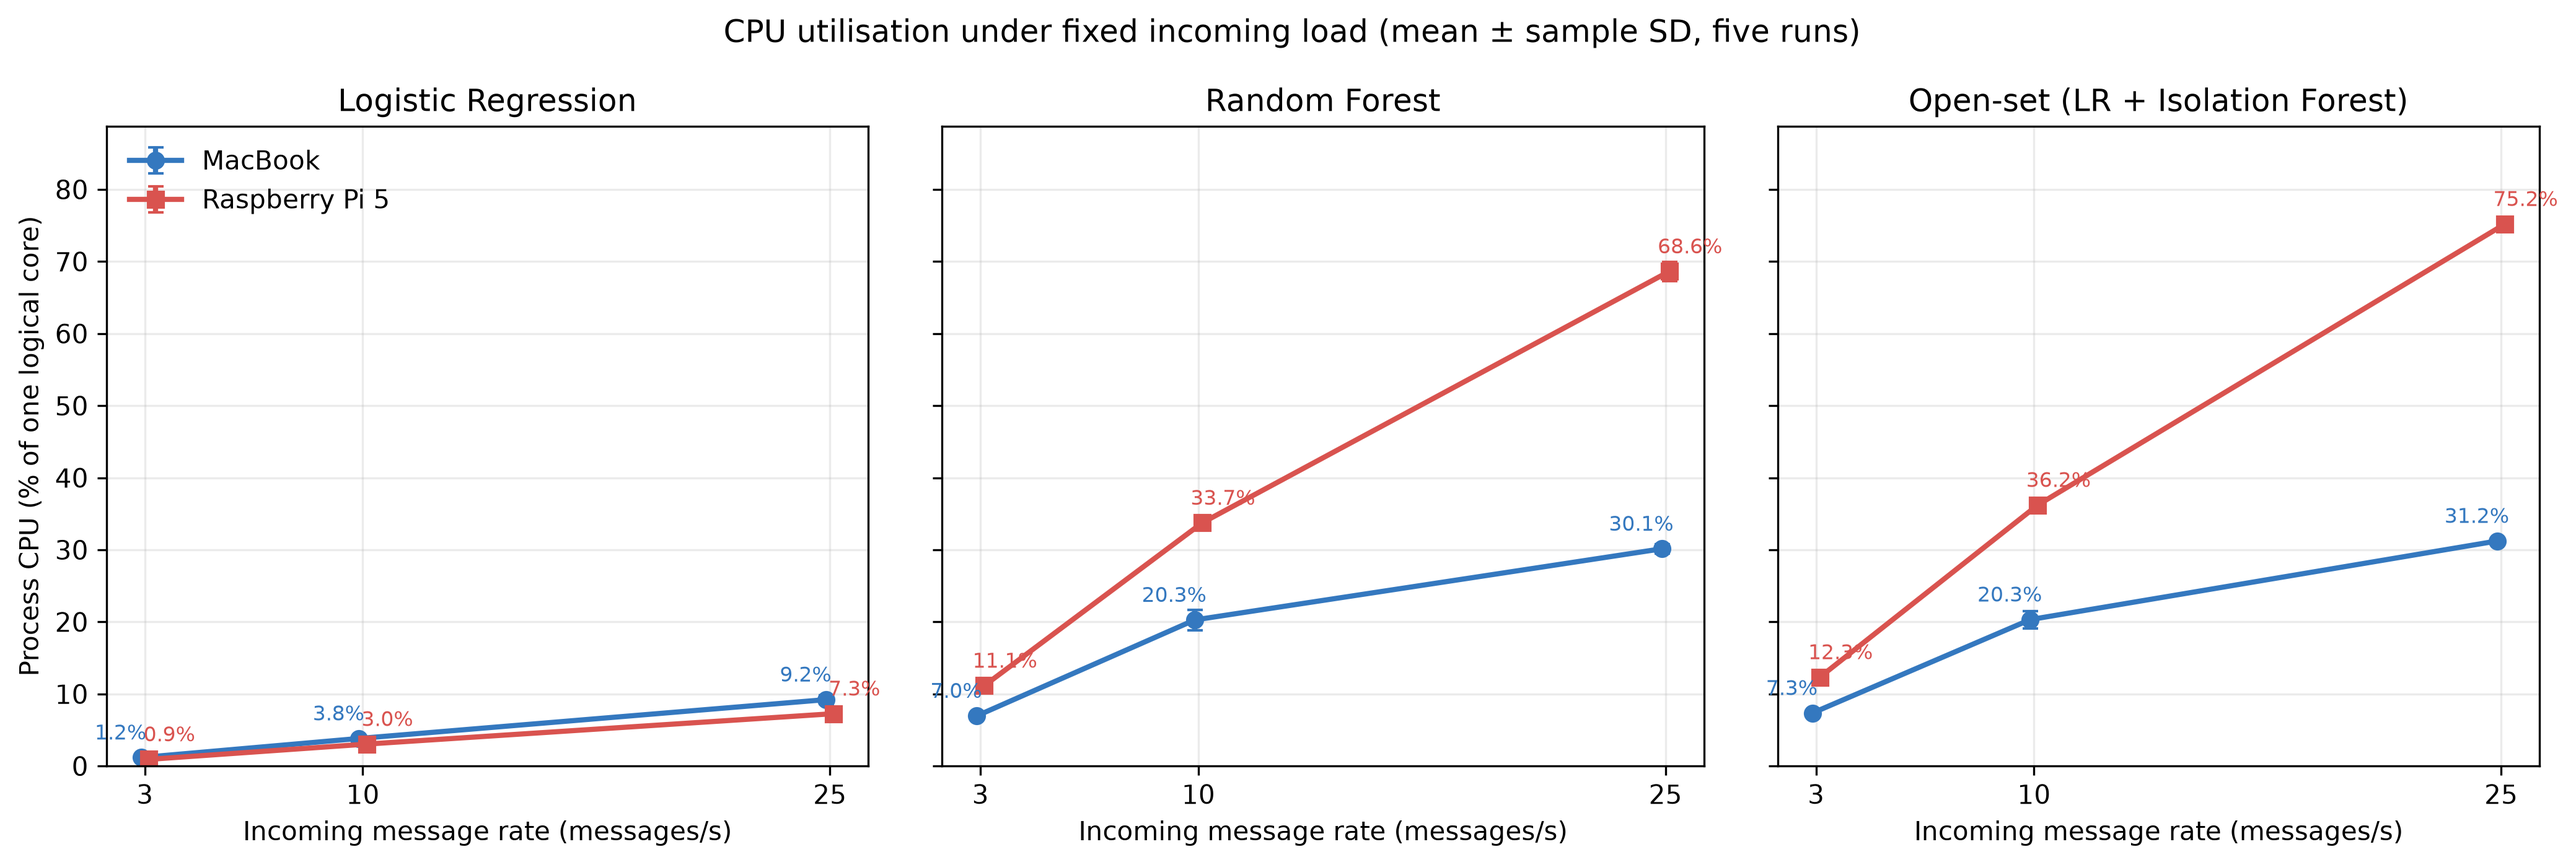
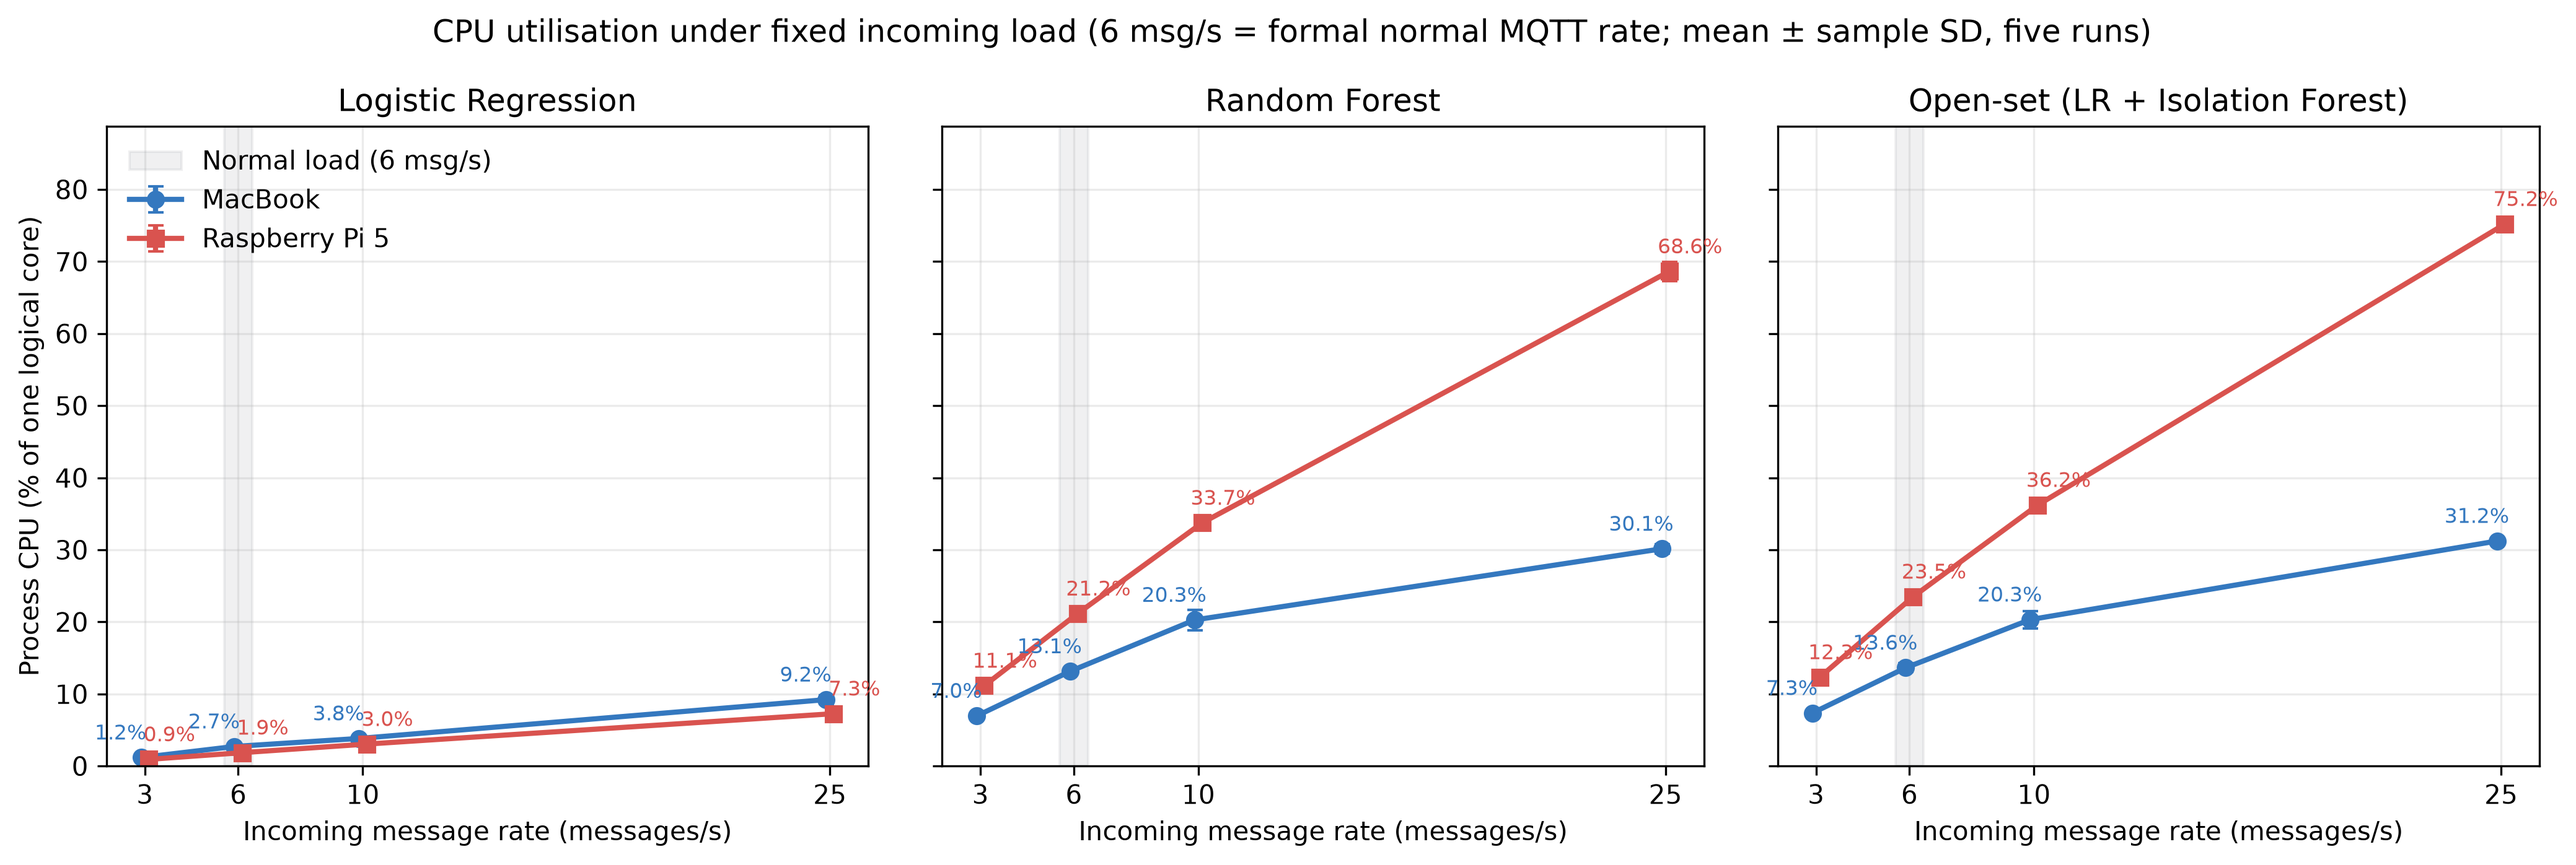
add normal MQTT load CPU comparison

diff --git a/scripts/summarize_results.py b/scripts/summarize_results.py
@@ -35,6 +35,12 @@ SOURCES = {
     "drift_platform_comparison": Path(
         "results/drift/platform_comparison.csv"
     ),
+    "normal_load_cpu": Path(
+        "results/edge/normal_load_cpu/platform_comparison.csv"
+    ),
+    "normal_load_thermal": Path(
+        "results/edge/normal_load_cpu/thermal_observation.csv"
+    ),
 }
 
 
@@ -62,6 +68,8 @@ def build_summary() -> tuple[dict[str, Any], pd.DataFrame]:
     drift_platform_comparison = pd.read_csv(
         SOURCES["drift_platform_comparison"]
     )
+    normal_load_cpu = pd.read_csv(SOURCES["normal_load_cpu"])
+    normal_load_thermal = pd.read_csv(SOURCES["normal_load_thermal"])
 
     all_views = ablation.loc[ablation["experiment_name"] == "all_views"].iloc[0]
     logistic = models.loc[models["model_name"] == "logistic_regression"].iloc[0]
@@ -82,6 +90,7 @@ def build_summary() -> tuple[dict[str, Any], pd.DataFrame]:
         live_mqtt["normal_messages"] * live_mqtt["normal_alert_rate"]
     ).sum()
     live_messages = live_mqtt["messages"].sum()
+    normal_cpu_by_pipeline = normal_load_cpu.set_index("pipeline")
 
     summary = {
         "multi_view": {
@@ -282,12 +291,76 @@ def build_summary() -> tuple[dict[str, Any], pd.DataFrame]:
             ),
             "throttled_status_all_checkpoints": "0x0",
         },
+        "normal_mqtt_cpu": {
+            "message_rate": 6.0,
+            "runs_per_pipeline": 5,
+            "logistic_mac_single_core_percent": float(
+                normal_cpu_by_pipeline.loc[
+                    "logistic_regression",
+                    "cpu_percent_single_core_equivalent_mean_mac",
+                ]
+            ),
+            "logistic_pi_single_core_percent": float(
+                normal_cpu_by_pipeline.loc[
+                    "logistic_regression",
+                    "cpu_percent_single_core_equivalent_mean_pi",
+                ]
+            ),
+            "random_forest_mac_single_core_percent": float(
+                normal_cpu_by_pipeline.loc[
+                    "random_forest",
+                    "cpu_percent_single_core_equivalent_mean_mac",
+                ]
+            ),
+            "random_forest_pi_single_core_percent": float(
+                normal_cpu_by_pipeline.loc[
+                    "random_forest",
+                    "cpu_percent_single_core_equivalent_mean_pi",
+                ]
+            ),
+            "open_set_mac_single_core_percent": float(
+                normal_cpu_by_pipeline.loc[
+                    "open_set",
+                    "cpu_percent_single_core_equivalent_mean_mac",
+                ]
+            ),
+            "open_set_pi_single_core_percent": float(
+                normal_cpu_by_pipeline.loc[
+                    "open_set",
+                    "cpu_percent_single_core_equivalent_mean_pi",
+                ]
+            ),
+            "deadline_misses_mac": float(
+                normal_load_cpu["deadline_misses_mean_mac"].sum()
+            ),
+            "deadline_misses_pi": float(
+                normal_load_cpu["deadline_misses_mean_pi"].sum()
+            ),
+            "pi_temperature_before_c": float(
+                normal_load_thermal.loc[
+                    normal_load_thermal["checkpoint"]
+                    == "before_normal_load_benchmark",
+                    "temperature_c",
+                ].iloc[0]
+            ),
+            "pi_temperature_after_c": float(
+                normal_load_thermal.loc[
+                    normal_load_thermal["checkpoint"]
+                    == "after_normal_load_benchmark",
+                    "temperature_c",
+                ].iloc[0]
+            ),
+            "thermal_throttling_observed": bool(
+                (normal_load_thermal["throttled_status"] != "0x0").any()
+            ),
+        },
         "limitations": {
             "edge_hardware": "MacBook and Raspberry Pi 5 Model B",
             "raspberry_pi_measured": True,
             "raspberry_pi_drift_measured": True,
             "energy_measured": False,
             "thermal_throttling_checked": True,
+            "normal_load_cpu_measured": True,
         },
     }
 

diff --git a/src/evaluation/fixed_rate_platform_comparison.py b/src/evaluation/fixed_rate_platform_comparison.py
@@ -14,6 +14,18 @@ PIPELINE_LABELS = {
 }
 
 
+def concatenate_fixed_rate_summaries(
+    summaries: list[pd.DataFrame],
+    platform: str,
+) -> pd.DataFrame:
+    """Combine independently generated rate summaries without duplicates."""
+    if not summaries:
+        raise ValueError(f"No {platform} fixed-rate summaries were provided")
+    combined = pd.concat(summaries, ignore_index=True)
+    _validate_summary(combined, platform)
+    return combined
+
+
 def _validate_summary(frame: pd.DataFrame, platform: str) -> None:
     required = {
         "pipeline",
@@ -86,6 +98,15 @@ def build_fixed_rate_platform_comparison(
             comparison["pipeline"]
         ),
     )
+    comparison.insert(
+        3,
+        "traffic_profile",
+        np.where(
+            comparison["configured_message_rate"].eq(6.0),
+            "formal_normal_mqtt_load",
+            "controlled_rate_sweep",
+        ),
+    )
     comparison["pi_to_mac_cpu_ratio"] = (
         comparison["cpu_percent_single_core_equivalent_mean_pi"]
         / comparison["cpu_percent_single_core_equivalent_mean_mac"]
@@ -121,6 +142,14 @@ def save_fixed_rate_cpu_figure(
         if selected.empty:
             raise ValueError(f"Missing fixed-rate results for {pipeline}")
         rates = selected["configured_message_rate"].to_numpy(dtype=float)
+        if np.isclose(rates, 6.0).any():
+            axis.axvspan(
+                5.55,
+                6.45,
+                color="#6C757D",
+                alpha=0.10,
+                label="Normal load (6 msg/s)" if pipeline == pipelines[0] else None,
+            )
         for platform, label, colour, marker, x_offset, label_offset in (
             ("mac", "MacBook", "#3478BF", "o", -0.12, (-8, 7)),
             ("pi", "Raspberry Pi 5", "#D9534F", "s", 0.12, (8, 7)),
@@ -166,7 +195,8 @@ def save_fixed_rate_cpu_figure(
     )
     axes[0].set_ylim(0.0, max(10.0, maximum * 1.18))
     figure.suptitle(
-        "CPU utilisation under fixed incoming load (mean ± sample SD, five runs)"
+        "CPU utilisation under fixed incoming load "
+        "(6 msg/s = formal normal MQTT rate; mean ± sample SD, five runs)"
     )
     figure.tight_layout()
     destination = Path(output_path)

diff --git a/scripts/compare_fixed_rate_platforms.py b/scripts/compare_fixed_rate_platforms.py
@@ -8,8 +8,25 @@ import pandas as pd
 from src.common.config import load_yaml_config
 from src.evaluation.fixed_rate_platform_comparison import (
     build_fixed_rate_platform_comparison,
+    concatenate_fixed_rate_summaries,
     save_fixed_rate_cpu_figure,
 )
+
+
+def load_platform_summaries(
+    inputs: dict[str, object],
+    platform: str,
+) -> pd.DataFrame:
+    primary = str(inputs[f"{platform}_summary"])
+    additional = inputs.get(f"{platform}_additional_summaries", [])
+    if not isinstance(additional, list):
+        raise TypeError(
+            f"{platform}_additional_summaries must be a list"
+        )
+    return concatenate_fixed_rate_summaries(
+        [pd.read_csv(path) for path in [primary, *additional]],
+        platform="MacBook" if platform == "mac" else "Raspberry Pi",
+    )
 
 
 def main() -> None:
@@ -21,9 +38,10 @@ def main() -> None:
     )
     args = parser.parse_args()
     config = load_yaml_config(args.config)
+    inputs = config["inputs"]
     comparison = build_fixed_rate_platform_comparison(
-        pd.read_csv(config["inputs"]["mac_summary"]),
-        pd.read_csv(config["inputs"]["pi_summary"]),
+        load_platform_summaries(inputs, "mac"),
+        load_platform_summaries(inputs, "pi"),
     )
     output = config["output"]
     csv_path = Path(output["comparison_csv"])
@@ -33,6 +51,7 @@ def main() -> None:
     columns = [
         "pipeline_label",
         "configured_message_rate",
+        "traffic_profile",
         "cpu_percent_single_core_equivalent_mean_mac",
         "cpu_percent_single_core_equivalent_std_mac",
         "cpu_percent_single_core_equivalent_mean_pi",

diff --git a/tests/test_fixed_rate_platform_comparison.py b/tests/test_fixed_rate_platform_comparison.py
@@ -3,6 +3,7 @@ import pytest
 
 from src.evaluation.fixed_rate_platform_comparison import (
     build_fixed_rate_platform_comparison,
+    concatenate_fixed_rate_summaries,
 )
 
 
@@ -44,3 +45,27 @@ def test_unmatched_fixed_rate_groups_are_rejected() -> None:
     pi = make_summary(4.0).iloc[:-1]
     with pytest.raises(ValueError, match="do not match"):
         build_fixed_rate_platform_comparison(mac, pi)
+
+
+def test_concatenate_fixed_rate_summaries_adds_normal_rate() -> None:
+    base = make_summary(2.0)
+    normal = base.loc[base["configured_message_rate"] == 3.0].copy()
+    normal["configured_message_rate"] = 6.0
+    combined = concatenate_fixed_rate_summaries(
+        [base, normal],
+        platform="MacBook",
+    )
+    assert sorted(combined["configured_message_rate"].unique()) == [
+        3.0,
+        6.0,
+        10.0,
+        25.0,
+    ]
+
+
+def test_concatenate_fixed_rate_summaries_rejects_duplicates() -> None:
+    with pytest.raises(ValueError, match="duplicate groups"):
+        concatenate_fixed_rate_summaries(
+            [make_summary(2.0), make_summary(2.0)],
+            platform="MacBook",
+        )

diff --git a/tests/test_summarize_results.py b/tests/test_summarize_results.py
@@ -13,6 +13,7 @@ def test_final_summary_contains_all_research_components() -> None:
         "live_mqtt_deployment",
         "drift",
         "raspberry_pi_live_drift",
+        "normal_mqtt_cpu",
         "limitations",
     }
     assert summary["open_set"]["unknown_recall"] > 0.9
@@ -21,6 +22,7 @@ def test_final_summary_contains_all_research_components() -> None:
     assert summary["live_mqtt_deployment"]["known_attack_alert_rate"] == 1.0
     assert summary["live_mqtt_deployment"]["unseen_unknown_recall"] > 0.9
     assert summary["limitations"]["raspberry_pi_drift_measured"] is True
+    assert summary["limitations"]["normal_load_cpu_measured"] is True
     assert summary["raspberry_pi_live_drift"]["runs_per_scenario"] == 5
     assert (
         summary["raspberry_pi_live_drift"]
@@ -37,4 +39,6 @@ def test_final_summary_contains_all_research_components() -> None:
         ["thermal_throttling_observed"]
         is False
     )
+    assert summary["normal_mqtt_cpu"]["message_rate"] == 6.0
+    assert summary["normal_mqtt_cpu"]["deadline_misses_pi"] == 0.0
     assert not table.empty

diff --git a/README.md b/README.md
@@ -264,7 +264,10 @@ make normal-load-cpu-platform-comparison
 ```
 
 This dedicated experiment does not overwrite the 3/10/25 messages/s load
-curves and must not be described as a maximum-throughput benchmark.
+summaries and must not be described as a maximum-throughput benchmark. The
+cross-platform plotting configuration combines the independent 6 messages/s
+summary with the 3/10/25 messages/s rate sweep only in a derived table and
+figure; the normal-load point is explicitly identified in both outputs.
 
 ## Real-time edge detector
 
@@ -416,6 +419,11 @@ five calibration replays.
 | Raspberry Pi communication alert reduction, five runs | 99.11 ± 0.0% |
 | Raspberry Pi maximum observed drift-trial temperature | 60.9 C |
 | Raspberry Pi throttling status at all 12 recorded checkpoints | `0x0` (none) |
+| MacBook open-set CPU at normal 6 msg/s | 13.64 ± 0.61% of one logical core |
+| Raspberry Pi open-set CPU at normal 6 msg/s | 23.50 ± 0.51% of one logical core |
+| Normal-load deadline misses on both platforms | 0 |
+| Raspberry Pi normal-load temperature before/after | 47.2 / 48.3 C |
+| Raspberry Pi normal-load throttling status before/after | `0x0` (none) |
 
 The consolidated machine-readable results are generated under `results/final/`.
 The dissertation-ready Raspberry Pi live-MQTT table is written to
